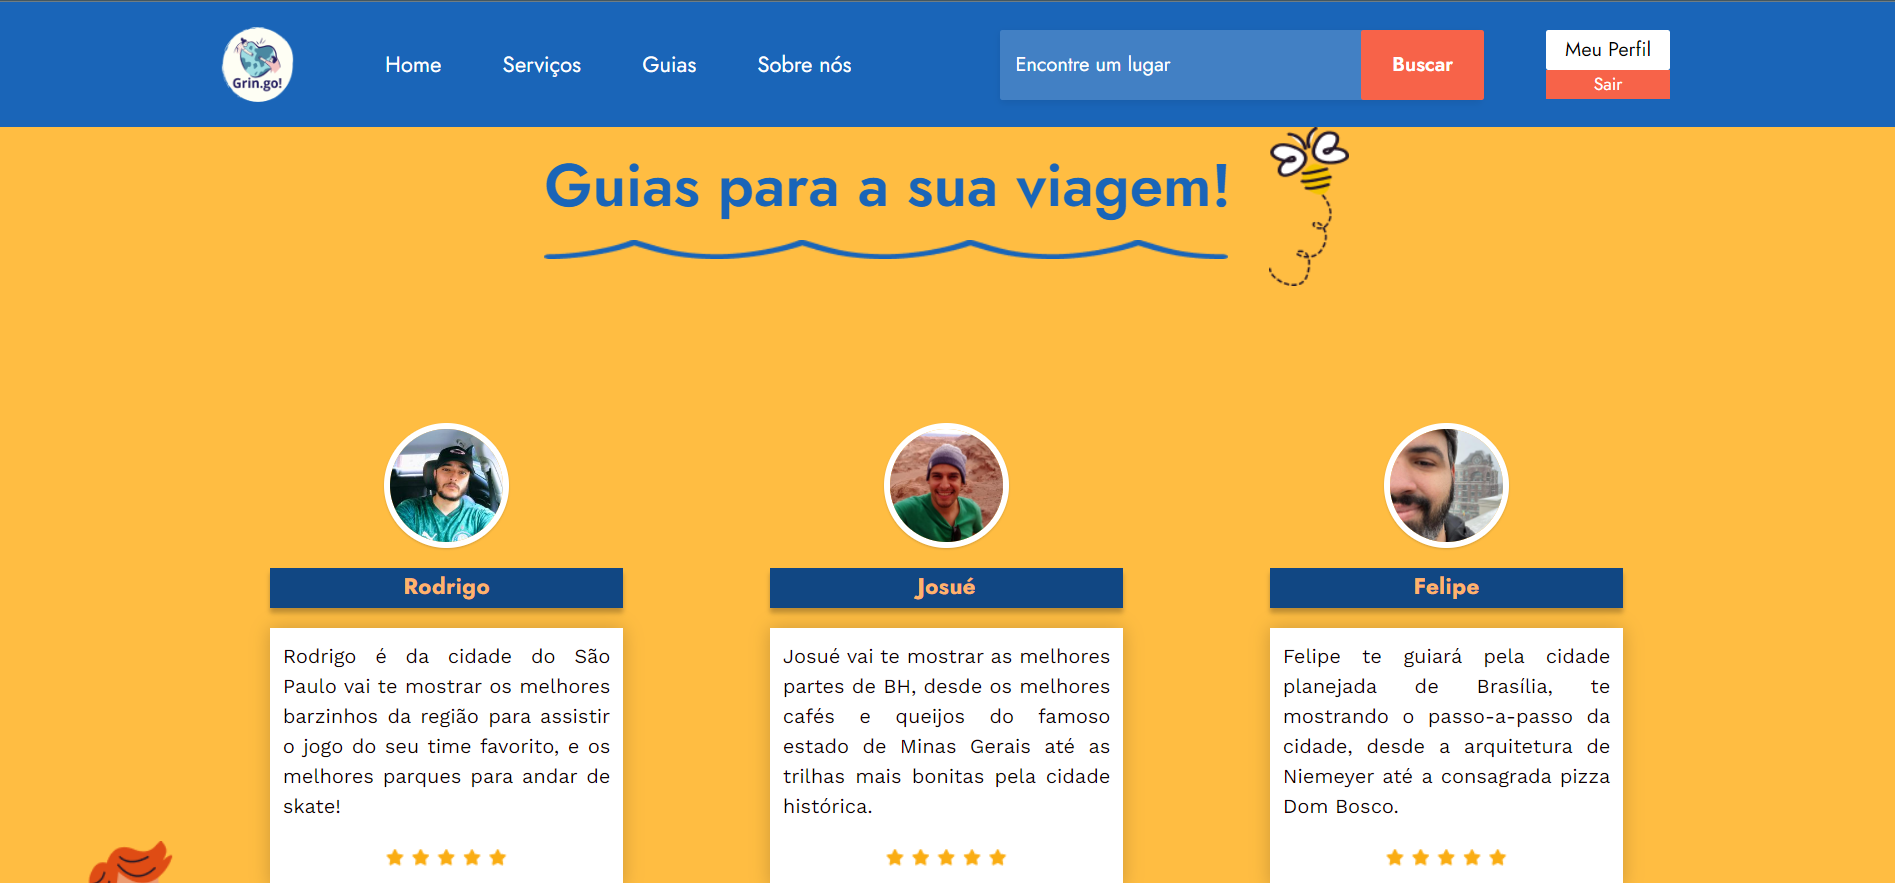
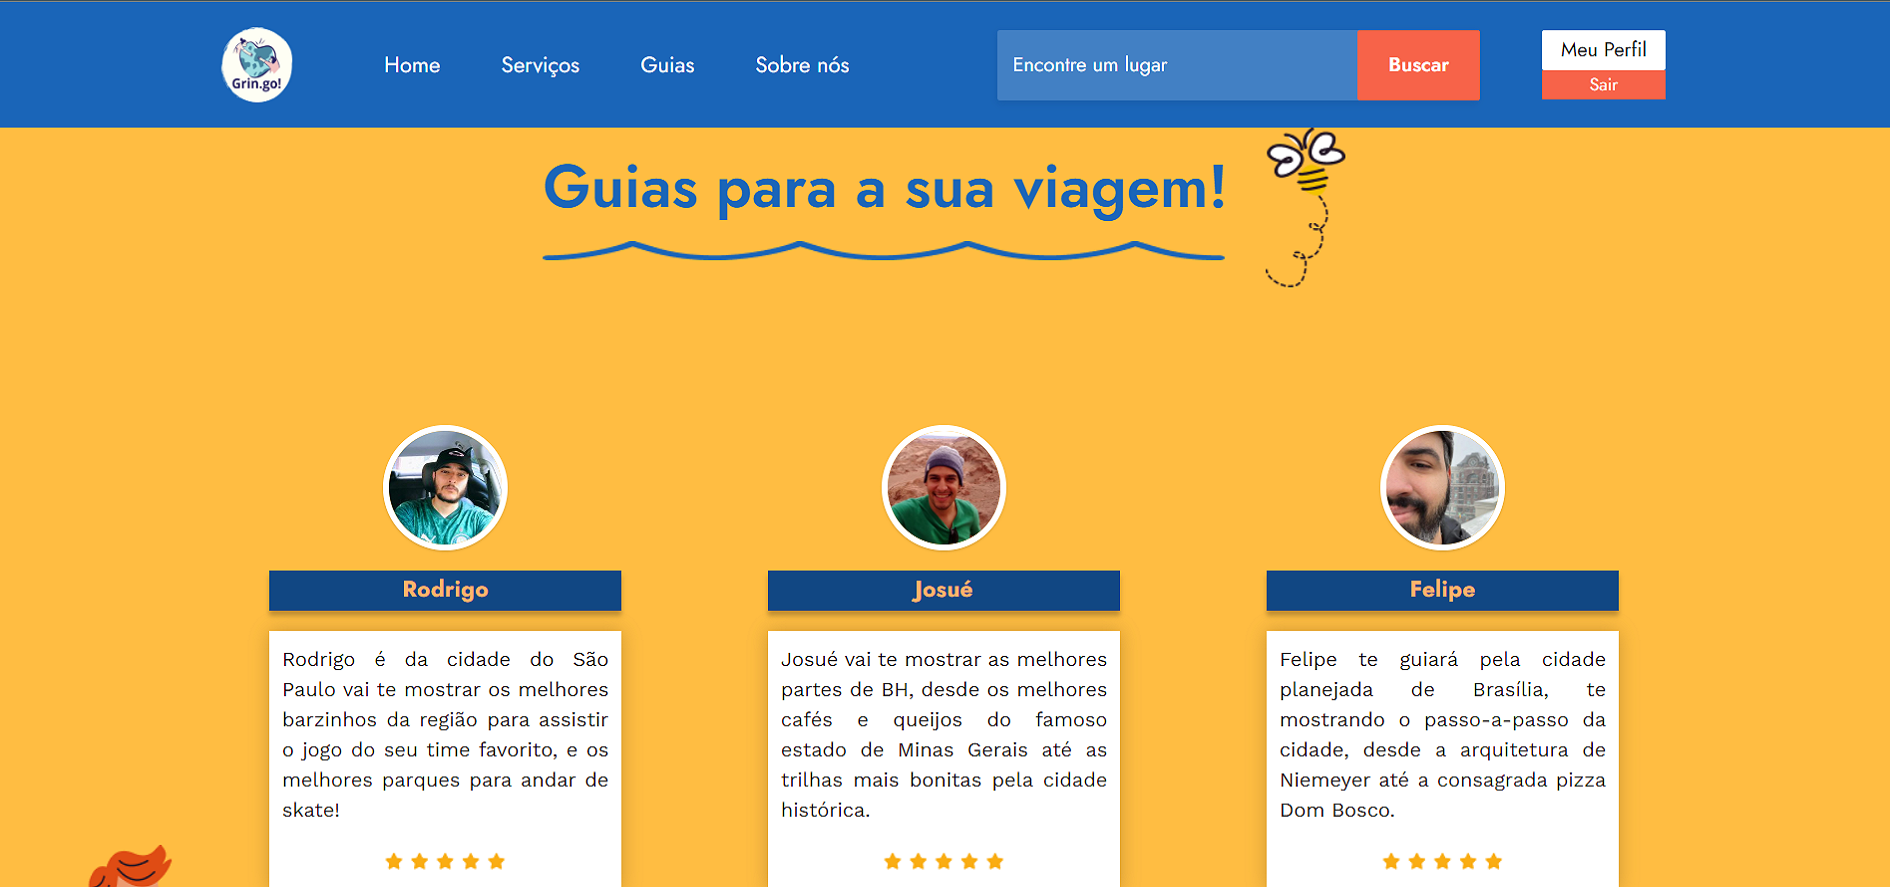
adjustments carousel

diff --git a/app/assets/stylesheets/components/_projects.scss b/app/assets/stylesheets/components/_projects.scss
@@ -1,4 +1,10 @@
 .projects {
+    display: flex;
+    align-items: center;
+    flex-direction: row;
+}
+
+.projects-text {
   display: flex;
   flex-direction: row;
   /* align-content: center; */
@@ -6,6 +12,10 @@
   gap: 40px;
 }
 
-.w-100 {
-  width: 60% !important;
+.gringo {
+  flex-direction: column;
+}
+
+.carousel-img {
+  width: 30%;
 }
